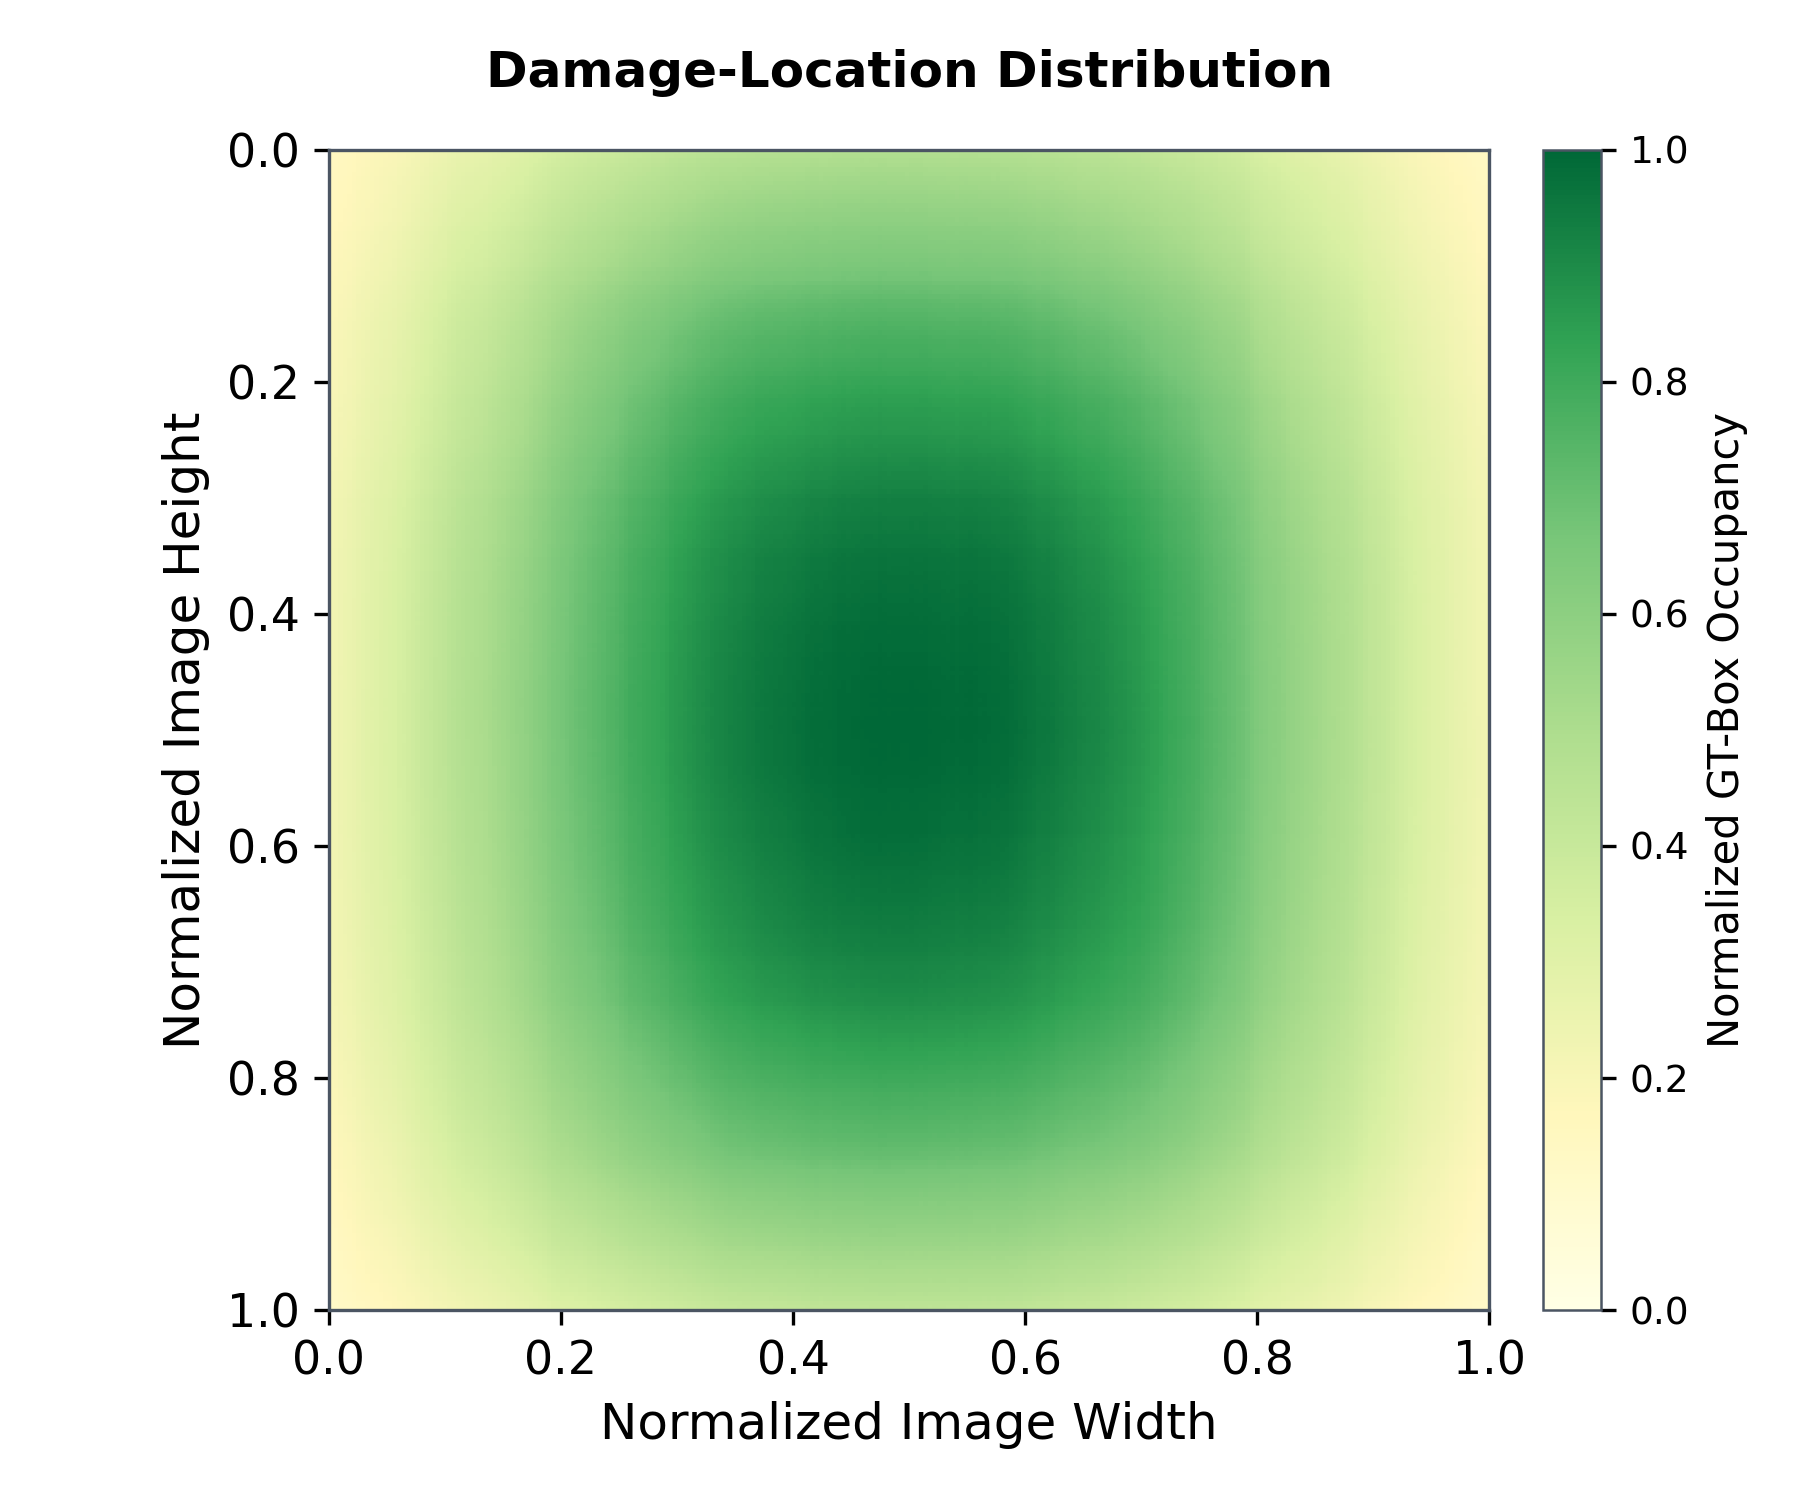
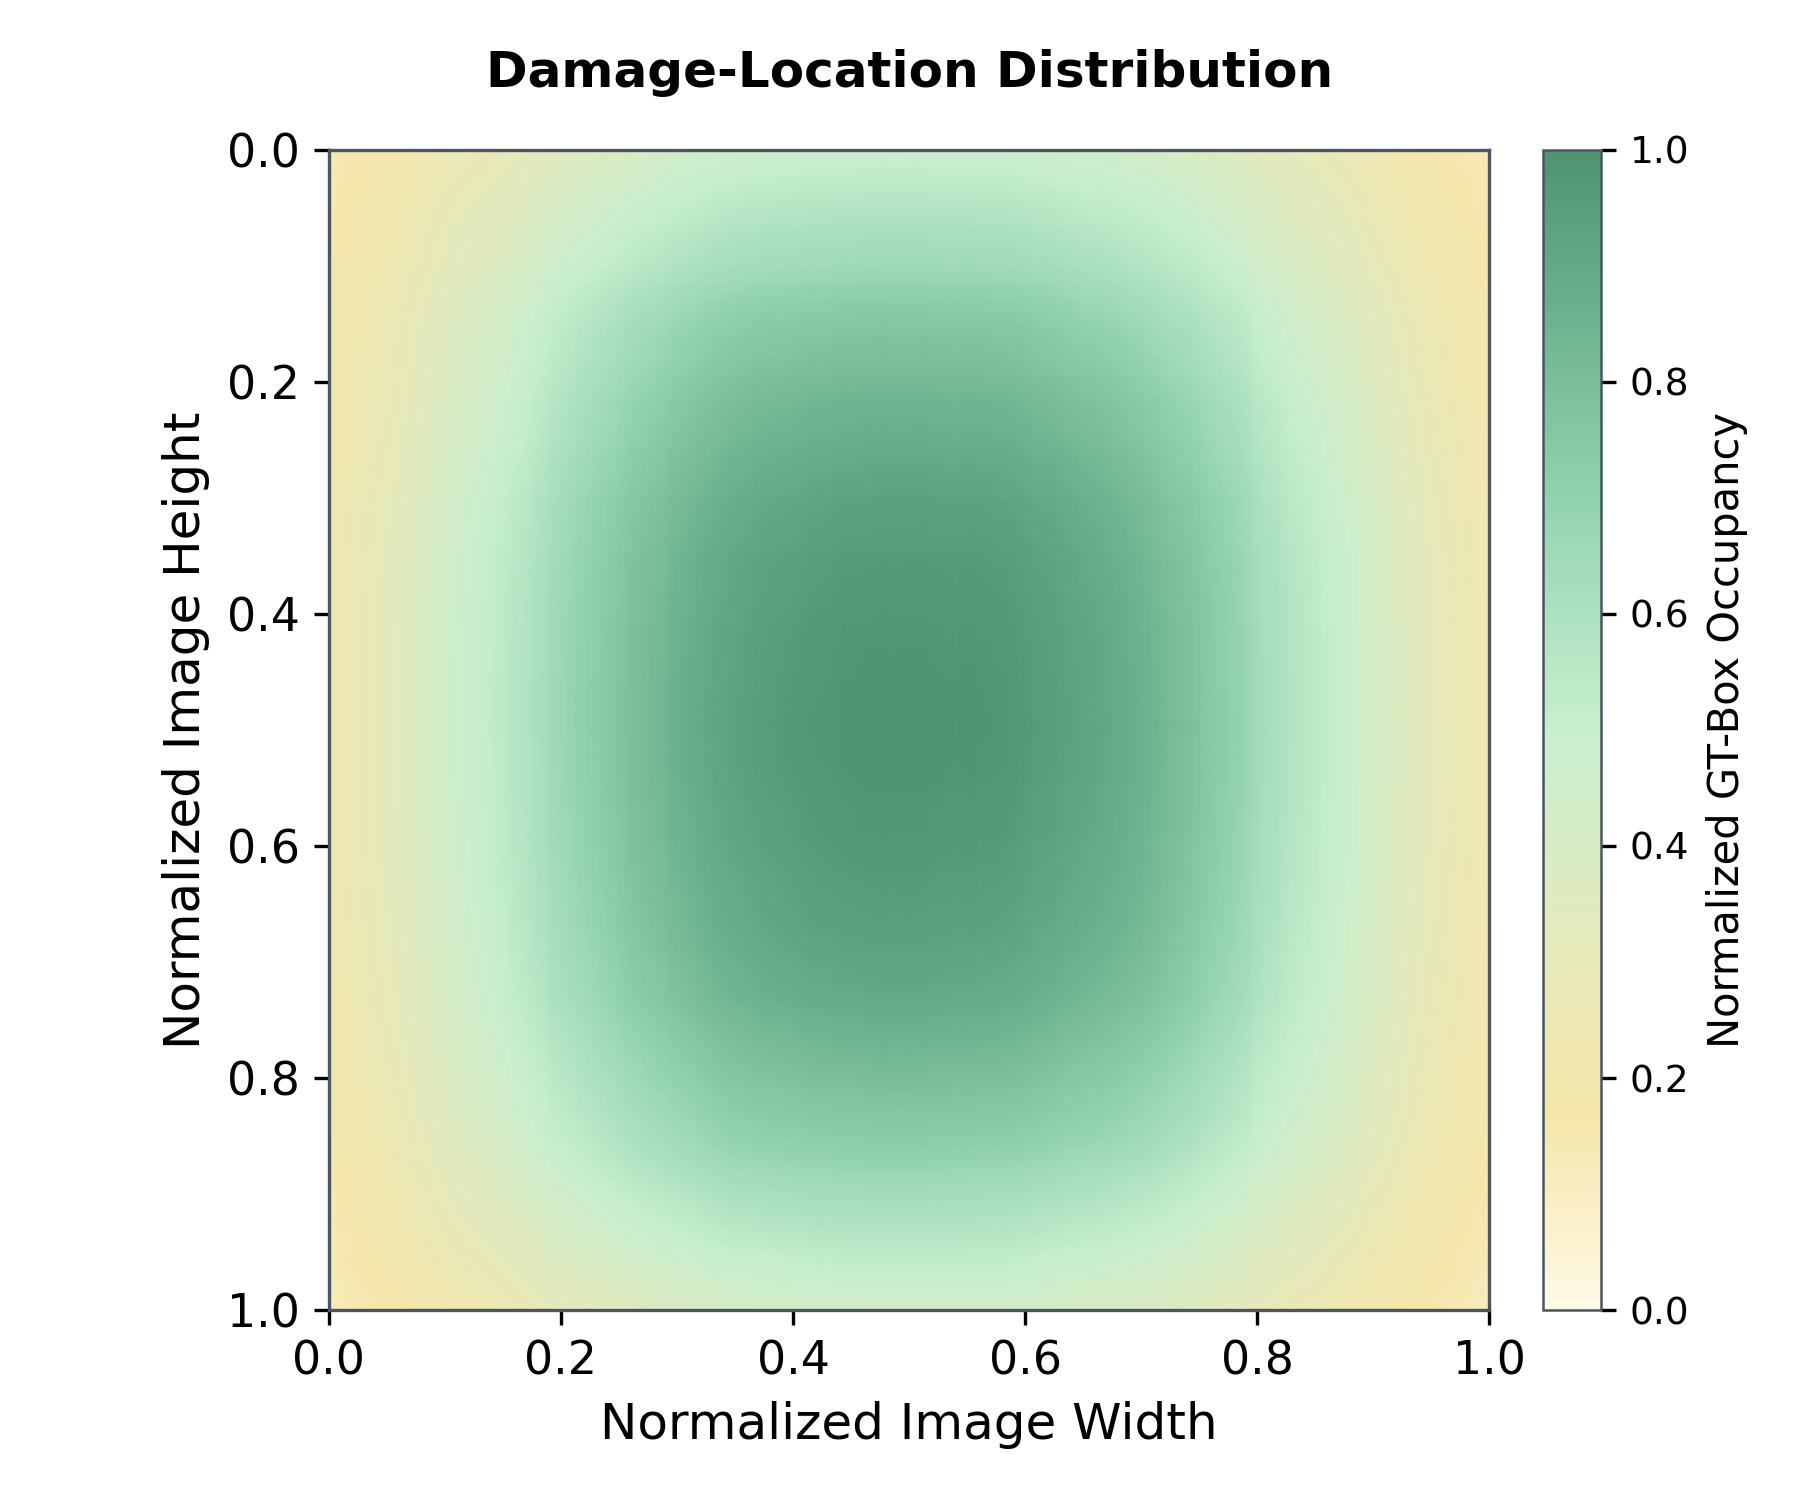
docs: harmonize occupancy heatmap palette

diff --git a/experiments/plot_damage_location_distribution.py b/experiments/plot_damage_location_distribution.py
@@ -74,8 +74,8 @@ def plot(boxes: np.ndarray, output: Path, grid_size: int) -> tuple[np.ndarray, n
     counts = occupancy_map(boxes, grid_size)
     normalized = counts.astype(np.float64) / counts.max()
     cmap = LinearSegmentedColormap.from_list(
-        "damage_occupancy", ["#FFFFE5", "#FFF7BC", "#D9F0A3",
-                             "#ADDD8E", "#78C679", "#31A354", "#006837"])
+        "damage_occupancy", ["#FFF9E6", "#F6E6A9", "#E3EABD",
+                             "#C7EFCF", "#9BD8B5", "#70B893", "#4D9470"])
 
     fig, ax = plt.subplots(figsize=(6.0, 5.0))
     ax.set_facecolor("#F8F8F8")
@@ -137,7 +137,7 @@ def main() -> None:
         "rasterization": "each bbox increments every grid cell it intersects",
         "smoothing": "none", "visual_interpolation": "nearest",
         "display_color_norm": "linear", "heat_value_range": [0.0, 1.0],
-        "colormap": "yellow-to-green (#FFFFE5 to #006837)",
+        "colormap": "pastel yellow-to-green (#FFF9E6 to #4D9470)",
         "one_is_not_probability": "1.0 is the maximum relative occurrence, not 100% of images",
         "splits": splits, "instances": int(len(boxes)),
         "maximum_coverage_count": int(counts.max()),

diff --git a/docs/DAMAGE_LOCATION_DISTRIBUTION.md b/docs/DAMAGE_LOCATION_DISTRIBUTION.md
@@ -25,7 +25,7 @@ H(u,v)=\frac{C(u,v)}{\max_{u,v}C(u,v)}.
 - 累计方式：每个 bbox 覆盖到的全部网格计数加 1；
 - 平滑：无 Gaussian、无 KDE、无其他平滑；
 - 显示插值：`nearest`，不使用 bilinear；
-- 色阶：线性 `0–1`，浅黄色→绿色；
+- 色阶：线性 `0–1`，低饱和奶油黄→浅薄荷绿→柔和中绿；与其余数据统计图的粉彩风格一致，不使用蓝紫色；
 - 画布：6×5 inches、300 DPI，PNG 为 1800×1500。
 
 | Split | 图片数 | GT 框 |
